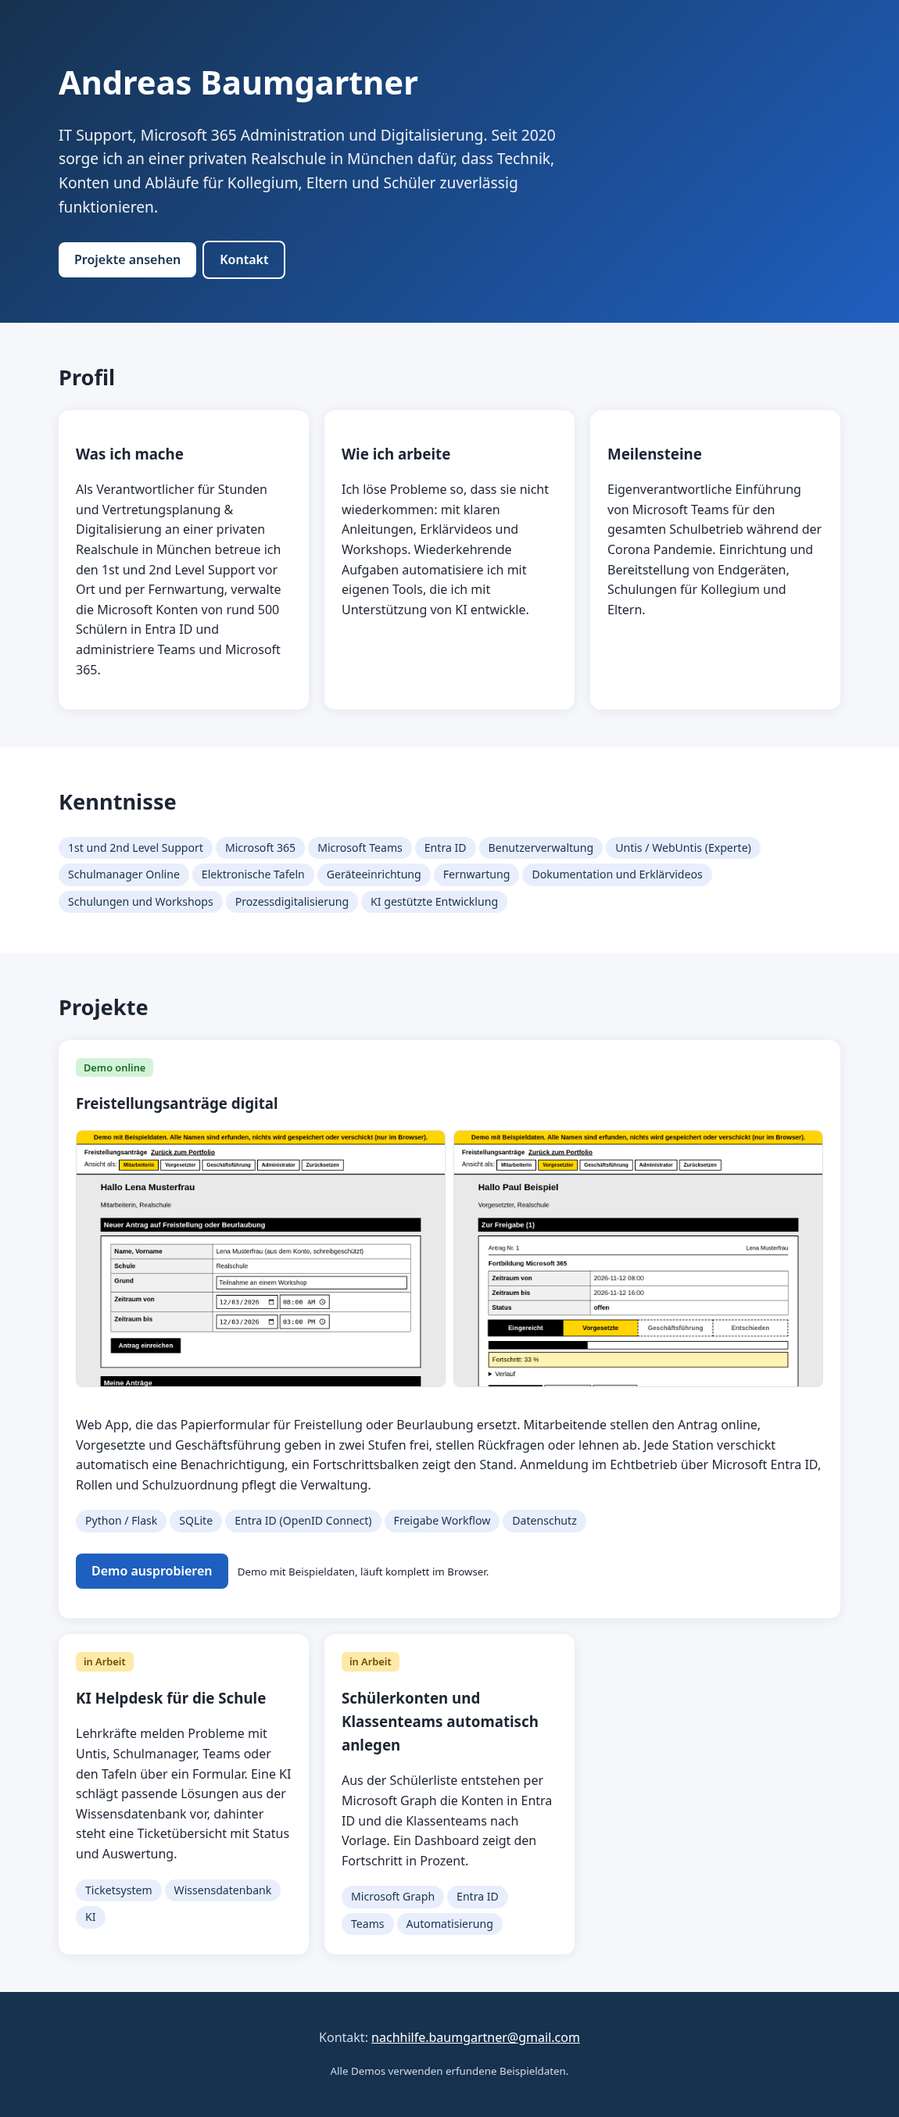
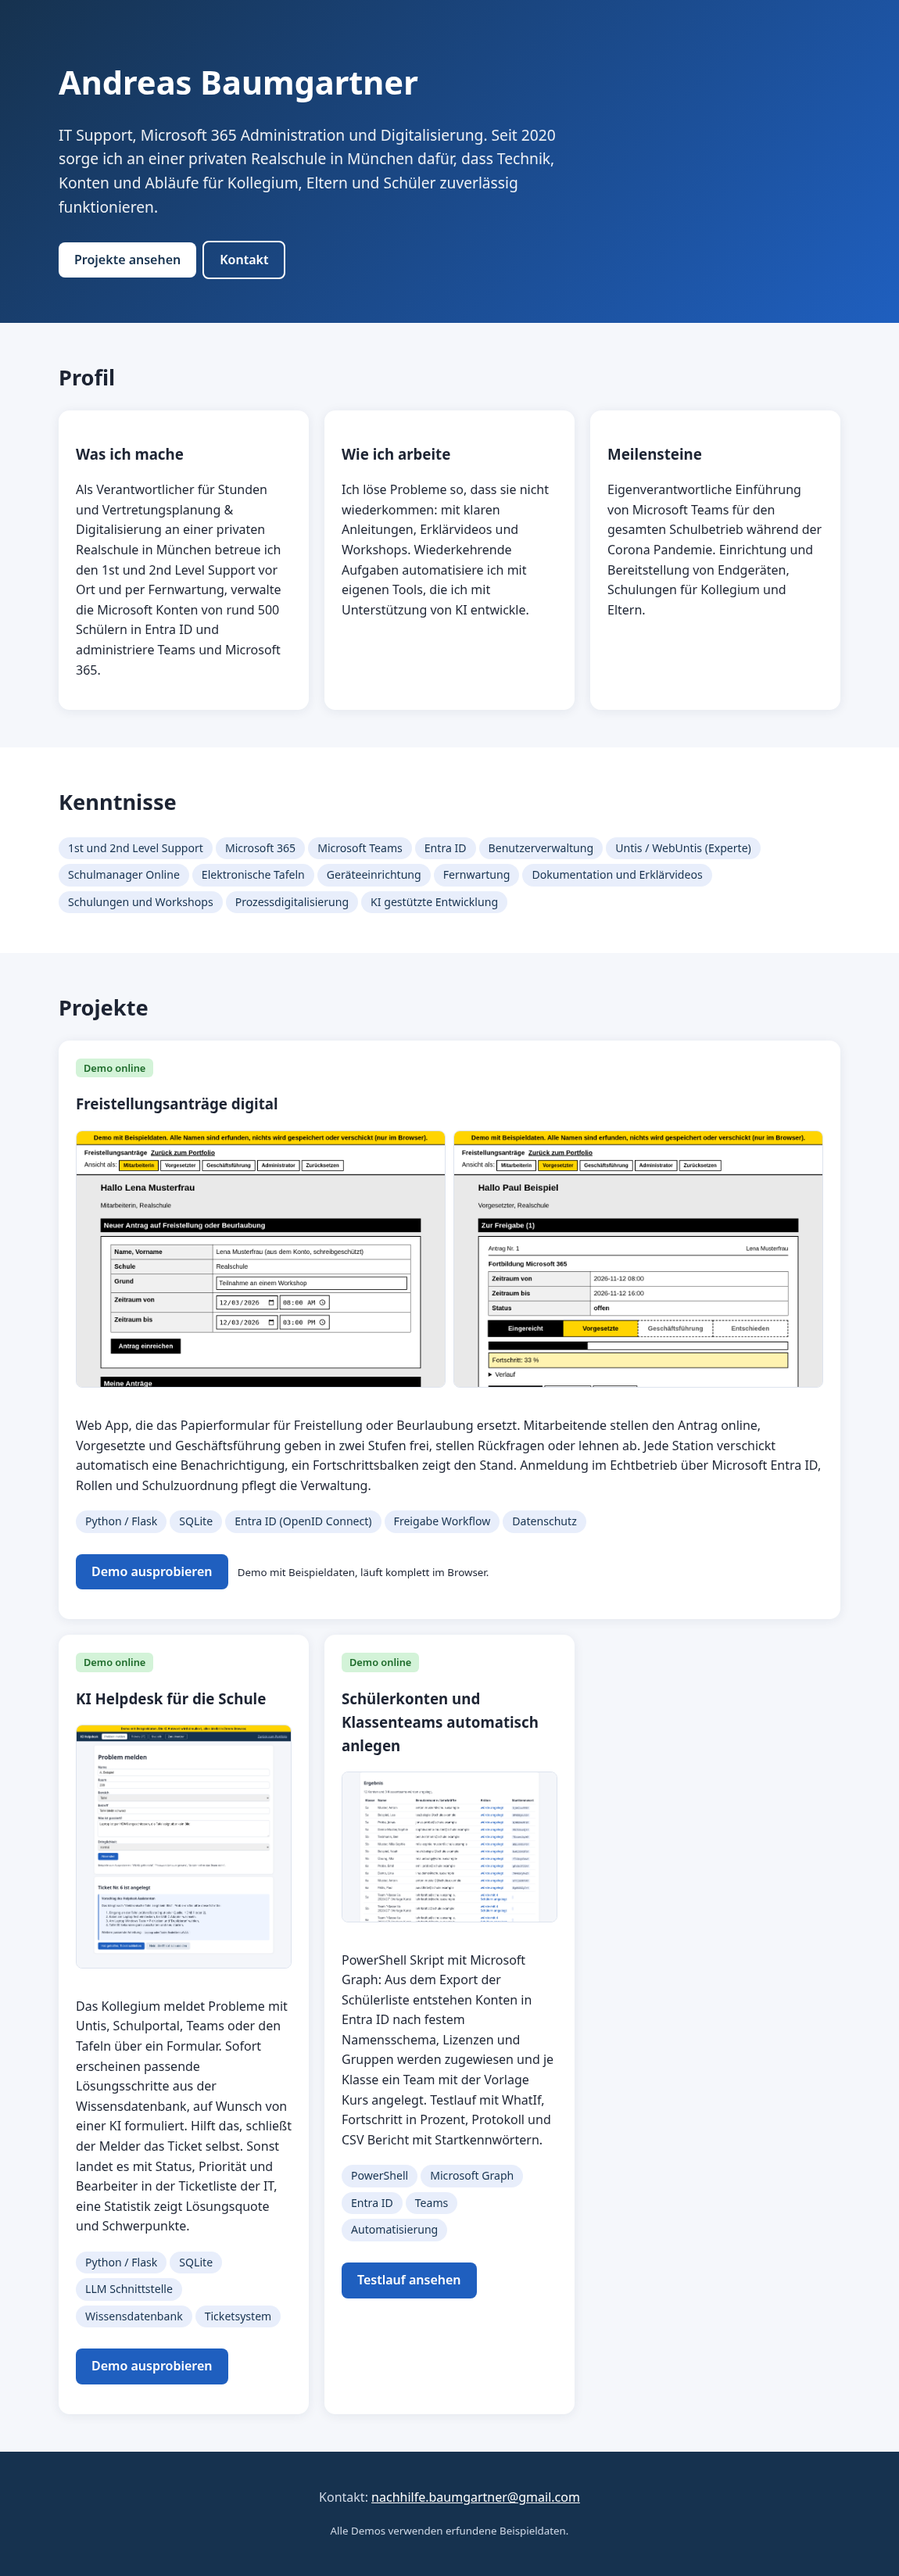
KI Helpdesk und Kontenautomatik als Demo

diff --git a/helpdesk-demo/app.js b/helpdesk-demo/app.js
@@ -1,0 +1,43 @@
+const KAT=["Untis","Schulportal","Teams / M365","Tafel","Gerät","Sonstiges"],ST=["neu","in Bearbeitung","wartet auf Rückmeldung","gelöst"],PR=["niedrig","normal","hoch"];
+const SEED=[
+{id:1,erstellt:"2026-10-12 08:05",name:"M. Beispiel",raum:"204",kategorie:"Tafel",titel:"Tafel zeigt kein Bild",prio:"hoch",status:"gelöst",bearbeiter:"Selbsthilfe"},
+{id:2,erstellt:"2026-10-13 10:40",name:"K. Muster",raum:"Lehrerzimmer",kategorie:"Gerät",titel:"Drucker druckt nicht",prio:"normal",status:"in Bearbeitung",bearbeiter:"IT Team"},
+{id:3,erstellt:"2026-10-14 07:55",name:"S. Probe",raum:"112",kategorie:"Teams / M365",titel:"Neues Handy, Authenticator geht nicht",prio:"hoch",status:"neu",bearbeiter:""},
+{id:4,erstellt:"2026-10-15 13:20",name:"T. Demo",raum:"Sekretariat",kategorie:"Schulportal",titel:"Eltern können sich nicht registrieren",prio:"normal",status:"wartet auf Rückmeldung",bearbeiter:"Verwaltung"},
+{id:5,erstellt:"2026-10-16 09:10",name:"L. Beispiel",raum:"015",kategorie:"Untis",titel:"Vertretungsplan zeigt alte Daten",prio:"niedrig",status:"gelöst",bearbeiter:"Selbsthilfe"}];
+let W=[],T=JSON.parse(localStorage.getItem("hddemo")||"null")||SEED;const save=()=>localStorage.setItem("hddemo",JSON.stringify(T));
+const app=document.getElementById("app"),esc=s=>String(s).replace(/[&<>"]/g,c=>({"&":"&amp;","<":"&lt;",">":"&gt;",'"':"&quot;"}[c]));
+const worte=t=>new Set(t.toLowerCase().match(/[a-zäöüß0-9]+/g)||[]);
+function suche(t){const w=worte(t);return W.map(a=>[a.stichworte.filter(k=>w.has(k)).length*3+[...worte(a.titel)].filter(x=>w.has(x)).length,a]).filter(x=>x[0]).sort((a,b)=>b[0]-a[0]).slice(0,2).map(x=>x[1])}
+const opts=(l,s)=>l.map(x=>`<option ${x==s?"selected":""}>${x}</option>`).join("");
+function melden(){app.innerHTML=`<div class="box"><h1>Problem melden</h1>
+<label>Name</label><input id="n" value="A. Beispiel"><label>Raum</label><input id="r" value="208">
+<label>Bereich</label><select id="k">${opts(KAT,"Tafel")}</select><label>Betreff</label><input id="t" value="Tafel bleibt schwarz">
+<label>Was ist passiert?</label><textarea id="x">Laptop ist per HDMI angeschlossen, die Tafel zeigt aber kein Bild.</textarea>
+<label>Dringlichkeit</label><select id="p">${opts(PR,"normal")}</select><button class="btn" id="go">Absenden</button>
+<p><small>Beispiele zum Ausprobieren: "WLAN geht nicht", "Passwort Untis vergessen", "Schüler sehen das Team nicht".</small></p></div><div id="out"></div>`;
+document.getElementById("go").onclick=senden}
+function senden(){const g=id=>document.getElementById(id).value.trim(),titel=g("t"),text=g("x");if(!titel||!text)return alert("Bitte Betreff und Beschreibung ausfüllen.");
+const id=Math.max(0,...T.map(t=>t.id))+1;T.push({id,erstellt:new Date().toISOString().slice(0,16).replace("T"," "),name:g("n"),raum:g("r"),kategorie:g("k"),titel,prio:g("p"),status:"neu",bearbeiter:""});save();
+const out=document.getElementById("out");let p=0;const schritte=["Ticket anlegen","Wissensdatenbank durchsuchen","Lösung formulieren"];
+const iv=setInterval(()=>{p+=4;out.innerHTML=`<div class="box">${schritte[Math.min(2,Math.floor(p/34))]} ... ${p} %<div class="bar"><span style="width:${p}%"></span></div></div>`;
+if(p>=100){clearInterval(iv);antwort(id,suche(titel+" "+text))}},40)}
+function antwort(id,tr){const out=document.getElementById("out");
+let h=`<div class="box"><h2>Ticket Nr. ${id} ist angelegt</h2>`;
+if(tr.length){h+=`<div class="ki"><b>Vorschlag des Helpdesk Assistenten</b><p>Das klingt nach "${esc(tr[0].titel)}". Probieren Sie bitte diese Schritte:</p><ol>${tr[0].loesung.map(s=>`<li>${esc(s)}</li>`).join("")}</ol>${tr[1]?`<p>Weitere passende Anleitung: <span class="chip">${esc(tr[1].titel)}</span></p>`:""}</div>
+<button class="btn" onclick="selbst(${id})">Hat geholfen, Ticket schließen</button><button class="btn l" onclick="ansicht('liste')">Nein, die IT soll sich melden</button>`}
+else h+=`<p>Keine passende Anleitung gefunden. Die IT meldet sich.</p>`;out.innerHTML=h+"</div>"}
+function selbst(id){const t=T.find(x=>x.id==id);t.status="gelöst";t.bearbeiter="Selbsthilfe";save();ansicht("statistik")}
+function liste(){app.innerHTML=`<h1>Tickets</h1><table><tr><th>Nr.</th><th>Erstellt</th><th>Bereich</th><th>Betreff</th><th>Priorität</th><th>Status</th><th>Bearbeiter</th></tr>${
+[...T].sort((a,b)=>PR.indexOf(b.prio)-PR.indexOf(a.prio)||b.id-a.id).map(t=>`<tr><td>${t.id}</td><td>${t.erstellt}</td><td>${t.kategorie}</td><td>${esc(t.titel)}</td><td class="${t.prio}">${t.prio}</td>
+<td><select onchange="upd(${t.id},'status',this.value)">${opts(ST,t.status)}</select></td><td><select onchange="upd(${t.id},'bearbeiter',this.value)">${opts(["","IT Team","Verwaltung","Selbsthilfe"],t.bearbeiter)}</select></td></tr>`).join("")}</table>`}
+function upd(id,k,v){T.find(t=>t.id==id)[k]=v;save()}
+function statistik(){const n=T.length,g=T.filter(t=>t.status=="gelöst").length,s=T.filter(t=>t.bearbeiter=="Selbsthilfe").length,q=n?Math.round(g/n*100):0;
+const kat={};T.forEach(t=>kat[t.kategorie]=(kat[t.kategorie]||0)+1);const m=Math.max(...Object.values(kat));
+app.innerHTML=`<h1>Statistik</h1><div class="kpi"><div><b>${n}</b>Tickets</div><div><b>${g}</b>gelöst</div><div><b>${s}</b>per Selbsthilfe</div><div><b>${q} %</b>Lösungsquote</div></div>
+<div class="box" style="margin-top:16px"><h3>Lösungsquote</h3><div class="bar"><span style="width:${q}%"></span></div><h3>Tickets nach Bereich</h3>${
+Object.entries(kat).sort((a,b)=>b[1]-a[1]).map(([k,v])=>`<div>${k}: ${v}<div class="bar"><span style="width:${v/m*100}%"></span></div></div>`).join("")}</div>`}
+function ansicht(v){if(v=="reset"){localStorage.removeItem("hddemo");T=JSON.parse(JSON.stringify(SEED));v="melden"}
+document.querySelectorAll("nav button").forEach(b=>b.classList.toggle("on",b.dataset.v==v));({melden,liste,statistik})[v]()}
+document.querySelectorAll("nav button").forEach(b=>b.onclick=()=>ansicht(b.dataset.v));
+fetch("wissen.json").then(r=>r.json()).then(j=>{W=j;melden()});

diff --git a/index.html b/index.html
@@ -18,8 +18,16 @@
 <p>Web App, die das Papierformular für Freistellung oder Beurlaubung ersetzt. Mitarbeitende stellen den Antrag online, Vorgesetzte und Geschäftsführung geben in zwei Stufen frei, stellen Rückfragen oder lehnen ab. Jede Station verschickt automatisch eine Benachrichtigung, ein Fortschrittsbalken zeigt den Stand. Anmeldung im Echtbetrieb über Microsoft Entra ID, Rollen und Schulzuordnung pflegt die Verwaltung.</p>
 <div class="tags"><span>Python / Flask</span><span>SQLite</span><span>Entra ID (OpenID Connect)</span><span>Freigabe Workflow</span><span>Datenschutz</span></div>
 <p><a class="btn" style="background:#1f5fbf;color:#fff" href="freistellungen-demo/">Demo ausprobieren</a> <small>Demo mit Beispieldaten, läuft komplett im Browser.</small></p></div>
-<div class="card"><span class="badge">in Arbeit</span><h3>KI Helpdesk für die Schule</h3><p>Lehrkräfte melden Probleme mit Untis, Schulmanager, Teams oder den Tafeln über ein Formular. Eine KI schlägt passende Lösungen aus der Wissensdatenbank vor, dahinter steht eine Ticketübersicht mit Status und Auswertung.</p><div class="tags"><span>Ticketsystem</span><span>Wissensdatenbank</span><span>KI</span></div></div>
-<div class="card"><span class="badge">in Arbeit</span><h3>Schülerkonten und Klassenteams automatisch anlegen</h3><p>Aus der Schülerliste entstehen per Microsoft Graph die Konten in Entra ID und die Klassenteams nach Vorlage. Ein Dashboard zeigt den Fortschritt in Prozent.</p><div class="tags"><span>Microsoft Graph</span><span>Entra ID</span><span>Teams</span><span>Automatisierung</span></div></div>
+<div class="card"><span class="badge live">Demo online</span><h3>KI Helpdesk für die Schule</h3>
+<a href="helpdesk-demo/"><img src="assets/helpdesk.png" alt="KI Helpdesk Demo"></a>
+<p>Das Kollegium meldet Probleme mit Untis, Schulportal, Teams oder den Tafeln über ein Formular. Sofort erscheinen passende Lösungsschritte aus der Wissensdatenbank, auf Wunsch von einer KI formuliert. Hilft das, schließt der Melder das Ticket selbst. Sonst landet es mit Status, Priorität und Bearbeiter in der Ticketliste der IT, eine Statistik zeigt Lösungsquote und Schwerpunkte.</p>
+<div class="tags"><span>Python / Flask</span><span>SQLite</span><span>LLM Schnittstelle</span><span>Wissensdatenbank</span><span>Ticketsystem</span></div>
+<p><a class="btn" style="background:#1f5fbf;color:#fff" href="helpdesk-demo/">Demo ausprobieren</a></p></div>
+<div class="card"><span class="badge live">Demo online</span><h3>Schülerkonten und Klassenteams automatisch anlegen</h3>
+<a href="kontenautomatik-demo/"><img src="assets/kontenautomatik.png" alt="Kontenautomatik Demo"></a>
+<p>PowerShell Skript mit Microsoft Graph: Aus dem Export der Schülerliste entstehen Konten in Entra ID nach festem Namensschema, Lizenzen und Gruppen werden zugewiesen und je Klasse ein Team mit der Vorlage Kurs angelegt. Testlauf mit WhatIf, Fortschritt in Prozent, Protokoll und CSV Bericht mit Startkennwörtern.</p>
+<div class="tags"><span>PowerShell</span><span>Microsoft Graph</span><span>Entra ID</span><span>Teams</span><span>Automatisierung</span></div>
+<p><a class="btn" style="background:#1f5fbf;color:#fff" href="kontenautomatik-demo/">Testlauf ansehen</a></p></div>
 </div></div></section>
 <footer><div class="wrap"><p>Kontakt: <a href="mailto:nachhilfe.baumgartner@gmail.com">nachhilfe.baumgartner@gmail.com</a></p><p><small>Alle Demos verwenden erfundene Beispieldaten.</small></p></div></footer>
 </body></html>

diff --git a/kontenautomatik-demo/app.js b/kontenautomatik-demo/app.js
@@ -1,0 +1,24 @@
+const esc=s=>String(s).replace(/[&<>"]/g,c=>({"&":"&amp;","<":"&lt;",">":"&gt;",'"':"&quot;"}[c]));
+let KL={};
+Promise.all([fetch("schueler.csv").then(r=>r.text()),fetch("klassen.csv").then(r=>r.text())]).then(([s,k])=>{
+ document.getElementById("csv").value=s.trim();
+ k.trim().split(/\r?\n/).slice(1).forEach(l=>{const [c,t]=l.split(";");KL[c]=t.split(",")})});
+function name(v,n){let s=(v+"."+n).toLowerCase();for(const [a,b] of [["ä","ae"],["ö","oe"],["ü","ue"],["ß","ss"],[" ",""]])s=s.split(a).join(b);
+ return s.normalize("NFD").replace(/[\u0300-\u036f]/g,"").replace(/[^a-z0-9.\-]/g,"")}
+function pw(){const z="ABCDEFGHJKLMNPQRSTUVWXYZabcdefghijkmnpqrstuvwxyz23456789",a=new Uint32Array(10);crypto.getRandomValues(a);return [...a].map(x=>z[x%z.length]).join("")+"!"}
+document.getElementById("go").onclick=()=>{
+ const zeilen=document.getElementById("csv").value.trim().split(/\r?\n/),kopf=zeilen.shift().split(";"),dom=document.getElementById("dom").value.trim();
+ const S=zeilen.filter(Boolean).map(l=>{const v=l.split(";"),o={};kopf.forEach((k,i)=>o[k.trim()]=(v[i]||"").trim());return o});
+ const klassen=[...new Set(S.map(s=>s.Klasse))],total=S.length+klassen.length,erg=[],verg={};let i=0;
+ const prog=document.getElementById("prog"),pt=document.getElementById("pt"),pb=document.getElementById("pb");prog.style.display="block";document.getElementById("out").innerHTML="";
+ const tick=()=>{if(i<S.length){const s=S[i],b=name(s.Vorname,s.Nachname);let n=b,k=2;while(verg[n])n=b+(k++);verg[n]=1;
+   erg.push({Klasse:s.Klasse,Name:s.Nachname+", "+s.Vorname,Benutzername:n+"@"+dom,Aktion:"würde angelegt",Startkennwort:pw()});pt.textContent=`Schülerkonten: ${s.Klasse} ${s.Nachname}`}
+  else{const c=klassen[i-S.length],m=S.filter(s=>s.Klasse==c).length;erg.push({Klasse:c,Name:`Team "Klasse ${c} 2026/27" (Vorlage Kurs)`,Benutzername:(KL[c]||["keine Lehrkraft hinterlegt"]).join(", "),Aktion:`würde mit ${m} Schülern angelegt`,Startkennwort:""});pt.textContent=`Klassenteams: ${c}`}
+  i++;const p=Math.round(i/total*100);pb.style.width=p+"%";pt.textContent+=` (${p} %)`;
+  if(i<total)setTimeout(tick,180);else zeigen(erg,S.length,klassen.length)};tick()};
+function zeigen(erg,ns,nk){window.ERG=erg;document.getElementById("pt").textContent="Testlauf abgeschlossen (100 %). Es wurde nichts verändert.";
+ document.getElementById("out").innerHTML=`<div class="box"><h2>Ergebnis</h2><p>${ns} Konten und ${nk} Klassenteams würden angelegt.</p>
+ <table><tr><th>Klasse</th><th>Name</th><th>Benutzername / Lehrkräfte</th><th>Aktion</th><th>Startkennwort</th></tr>${erg.map(e=>`<tr><td>${esc(e.Klasse)}</td><td>${esc(e.Name)}</td><td>${esc(e.Benutzername)}</td><td class="neu">${esc(e.Aktion)}</td><td><code>${e.Startkennwort}</code></td></tr>`).join("")}</table>
+ <button class="btn" onclick="csv()">Bericht als CSV herunterladen</button></div>`}
+function csv(){const k=["Klasse","Name","Benutzername","Aktion","Startkennwort"],t=[k.join(";"),...ERG.map(e=>k.map(x=>e[x]).join(";"))].join("\n");
+ const a=document.createElement("a");a.href=URL.createObjectURL(new Blob(["\ufeff"+t],{type:"text/csv"}));a.download="bericht_testlauf.csv";a.click()}

diff --git a/kontenautomatik-demo/index.html b/kontenautomatik-demo/index.html
@@ -1,0 +1,36 @@
+<!doctype html><html lang="de"><head><meta charset="utf-8"><meta name="viewport" content="width=device-width,initial-scale=1">
+<title>Kontenautomatik (Demo mit Beispieldaten)</title><link rel="stylesheet" href="style.css"></head><body>
+<div class="demo">Demo mit Beispieldaten. Simulierter Testlauf (WhatIf), es wird keine Verbindung zu Microsoft hergestellt.</div>
+<nav><b>Kontenautomatik</b><a href="../">Zurück zum Portfolio</a></nav>
+<main>
+<div class="box"><h1>Schülerkonten und Klassenteams automatisch anlegen</h1>
+<p>Das PowerShell Skript liest den Export der Schülerliste, legt Konten in Entra ID an, weist Lizenz und Gruppe zu und erstellt je Klasse ein Team mit der Vorlage <b>Kurs</b>. Hier läuft ein Testlauf mit erfundenen Daten im Browser.</p>
+<label>Schülerliste (CSV)</label><textarea id="csv" style="min-height:160px;font-family:monospace"></textarea>
+<label>Domain</label><input id="dom" value="schule.example">
+<button class="btn" id="go">Testlauf starten (WhatIf)</button>
+<div id="prog" style="display:none"><p id="pt"></p><div class="bar"><span id="pb" style="width:0"></span></div></div></div>
+<div id="out"></div>
+<div class="box"><h2>Auszug aus dem Skript</h2>
+<p>Benutzername aus Vor und Nachname, Umlaute umgeschrieben, Doppelte bekommen eine Ziffer:</p>
+<pre>function Get-Benutzername([string]$vor, [string]$nach) {
+    $s = "$vor.$nach".ToLower()
+    foreach ($p in @{ 'ä'='ae'; 'ö'='oe'; 'ü'='ue'; 'ß'='ss' }.GetEnumerator()) { $s = $s.Replace($p.Key, $p.Value) }
+    return ($s -replace '[^a-z0-9.\-]', '')
+}</pre>
+<p>Konto anlegen nur, wenn nicht im Testlauf (<code>SupportsShouldProcess</code>, <code>-WhatIf</code>):</p>
+<pre>if ($PSCmdlet.ShouldProcess($upn, 'Konto anlegen')) {
+    $u = New-MgUser -AccountEnabled -DisplayName "$($s.Vorname) $($s.Nachname)" `
+        -UserPrincipalName $upn -EmployeeId $s.Schuelernummer -Department $s.Klasse `
+        -PasswordProfile @{ Password = $pw; ForceChangePasswordNextSignIn = $true }
+    Set-MgUserLicense -UserId $u.Id -AddLicenses @(@{ SkuId = $cfg.LizenzSkuId }) -RemoveLicenses @()
+}</pre>
+<p>Klassenteam mit der Vorlage Kurs:</p>
+<pre>$body = @{
+    'template@odata.bind' = "https://graph.microsoft.com/v1.0/teamsTemplates('educationClass')"
+    displayName = "Klasse $($k.Klasse) 2026/27"
+    members = @(@{ '@odata.type' = '#microsoft.graph.aadUserConversationMember'; roles = @('owner')
+                   'user@odata.bind' = "https://graph.microsoft.com/v1.0/users('$lehrkraft')" })
+}
+New-MgTeam -BodyParameter $body</pre>
+<p>Fortschritt: <code>Write-Progress -PercentComplete</code>, Ergebnis als CSV Bericht und Protokoll.</p></div>
+</main><script src="app.js"></script></body></html>

diff --git a/kontenautomatik-demo/style.css b/kontenautomatik-demo/style.css
@@ -1,0 +1,14 @@
+body{font-family:system-ui,Segoe UI,Arial,sans-serif;margin:0;background:#f4f6fa;color:#1d2433}
+.demo{background:#ffd400;text-align:center;font-weight:700;padding:6px}
+nav{background:#16324f;padding:10px 20px;display:flex;gap:8px;flex-wrap:wrap;align-items:center}nav b{color:#fff;margin-right:12px}
+nav button{background:transparent;color:#fff;border:1px solid #fff6;border-radius:6px;padding:6px 12px;cursor:pointer;font-size:.95rem}nav button.on{background:#fff;color:#16324f}
+nav a{color:#cfe0ff;margin-left:auto}
+main{max-width:960px;margin:22px auto;padding:0 16px}.box{background:#fff;border-radius:10px;padding:20px;box-shadow:0 1px 8px #0001;margin-bottom:16px}
+label{display:block;font-weight:600;margin-top:10px}input,select,textarea{width:100%;padding:8px;font-size:1rem;border:1px solid #bcc6d6;border-radius:6px;box-sizing:border-box}
+textarea{min-height:90px;font-family:inherit}.btn{background:#1f5fbf;color:#fff;border:0;padding:10px 18px;border-radius:6px;font-size:1rem;margin:12px 8px 0 0;cursor:pointer}.btn.l{background:#e3e8f0;color:#16324f}
+table{width:100%;border-collapse:collapse;background:#fff}td,th{padding:8px;border-bottom:1px solid #e3e8f0;text-align:left}
+.hoch{color:#b00020;font-weight:700}.bar{height:14px;background:#e3e8f0;border-radius:7px;overflow:hidden;margin:6px 0}.bar span{display:block;height:100%;background:#1f5fbf;transition:width .2s}
+.ki{background:#eef4ff;border-left:4px solid #1f5fbf;padding:12px 16px;border-radius:6px}.chip{display:inline-block;background:#e8eefb;border-radius:12px;padding:2px 10px;margin:2px;font-size:.85rem}
+.kpi{display:grid;grid-template-columns:repeat(auto-fit,minmax(160px,1fr));gap:12px}.kpi div{background:#fff;border-radius:10px;padding:14px;box-shadow:0 1px 8px #0001}.kpi b{font-size:1.8rem;display:block}
+pre{background:#0f1b2b;color:#d6e2ff;padding:14px;border-radius:8px;overflow:auto;font-size:.85rem}
+.ok{color:#1d6b2a;font-weight:600}.neu{color:#1f5fbf;font-weight:600}code{background:#e8eefb;padding:1px 5px;border-radius:4px}

diff --git a/helpdesk-demo/style.css b/helpdesk-demo/style.css
@@ -1,0 +1,12 @@
+body{font-family:system-ui,Segoe UI,Arial,sans-serif;margin:0;background:#f4f6fa;color:#1d2433}
+.demo{background:#ffd400;text-align:center;font-weight:700;padding:6px}
+nav{background:#16324f;padding:10px 20px;display:flex;gap:8px;flex-wrap:wrap;align-items:center}nav b{color:#fff;margin-right:12px}
+nav button{background:transparent;color:#fff;border:1px solid #fff6;border-radius:6px;padding:6px 12px;cursor:pointer;font-size:.95rem}nav button.on{background:#fff;color:#16324f}
+nav a{color:#cfe0ff;margin-left:auto}
+main{max-width:960px;margin:22px auto;padding:0 16px}.box{background:#fff;border-radius:10px;padding:20px;box-shadow:0 1px 8px #0001;margin-bottom:16px}
+label{display:block;font-weight:600;margin-top:10px}input,select,textarea{width:100%;padding:8px;font-size:1rem;border:1px solid #bcc6d6;border-radius:6px;box-sizing:border-box}
+textarea{min-height:90px;font-family:inherit}.btn{background:#1f5fbf;color:#fff;border:0;padding:10px 18px;border-radius:6px;font-size:1rem;margin:12px 8px 0 0;cursor:pointer}.btn.l{background:#e3e8f0;color:#16324f}
+table{width:100%;border-collapse:collapse;background:#fff}td,th{padding:8px;border-bottom:1px solid #e3e8f0;text-align:left}
+.hoch{color:#b00020;font-weight:700}.bar{height:14px;background:#e3e8f0;border-radius:7px;overflow:hidden;margin:6px 0}.bar span{display:block;height:100%;background:#1f5fbf;transition:width .2s}
+.ki{background:#eef4ff;border-left:4px solid #1f5fbf;padding:12px 16px;border-radius:6px}.chip{display:inline-block;background:#e8eefb;border-radius:12px;padding:2px 10px;margin:2px;font-size:.85rem}
+.kpi{display:grid;grid-template-columns:repeat(auto-fit,minmax(160px,1fr));gap:12px}.kpi div{background:#fff;border-radius:10px;padding:14px;box-shadow:0 1px 8px #0001}.kpi b{font-size:1.8rem;display:block}

diff --git a/helpdesk-demo/index.html b/helpdesk-demo/index.html
@@ -1,0 +1,5 @@
+<!doctype html><html lang="de"><head><meta charset="utf-8"><meta name="viewport" content="width=device-width,initial-scale=1">
+<title>KI Helpdesk (Demo mit Beispieldaten)</title><link rel="stylesheet" href="style.css"></head><body>
+<div class="demo">Demo mit Beispieldaten. Die KI Antwort wird simuliert, alles bleibt in Ihrem Browser.</div>
+<nav><b>KI Helpdesk</b><button data-v="melden" class="on">Problem melden</button><button data-v="liste">Tickets (IT)</button><button data-v="statistik">Statistik</button><button data-v="reset">Zurücksetzen</button><a href="../">Zurück zum Portfolio</a></nav>
+<main id="app"></main><script src="app.js"></script></body></html>
